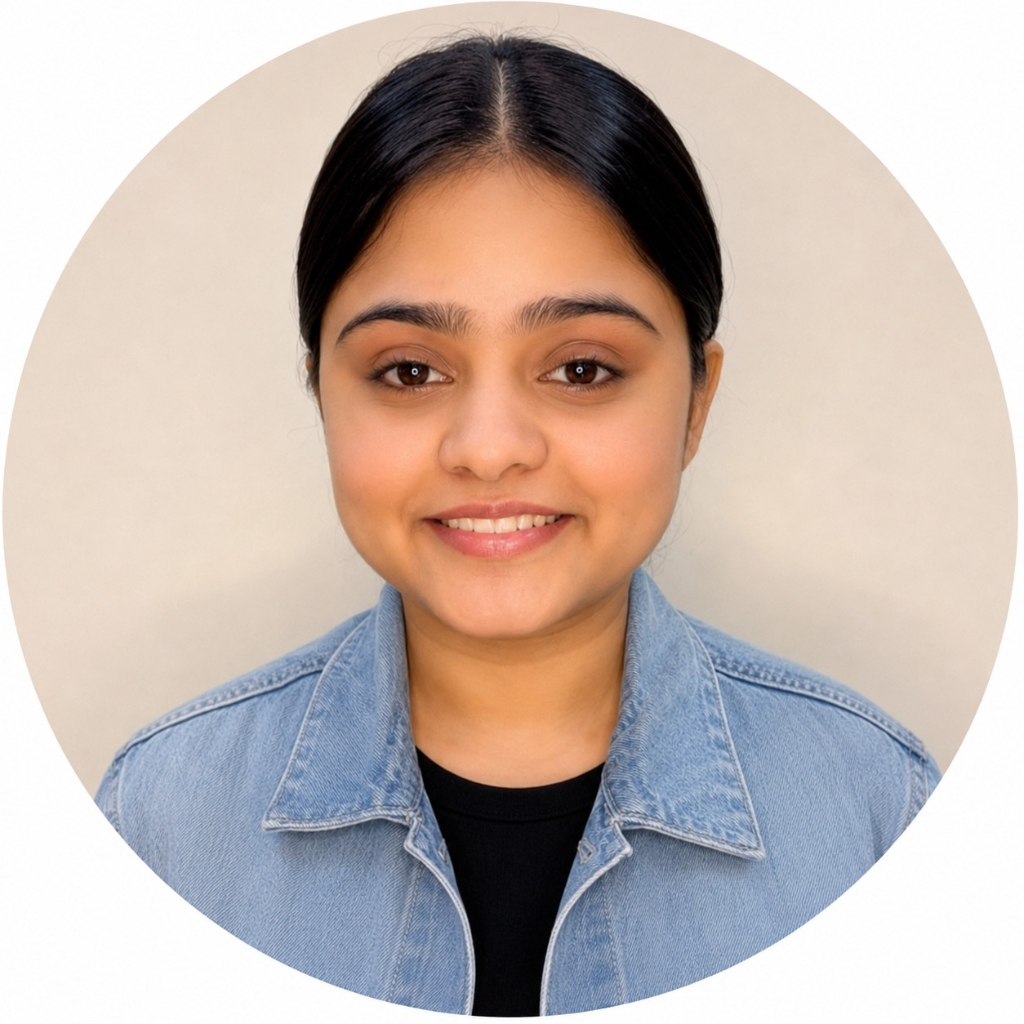
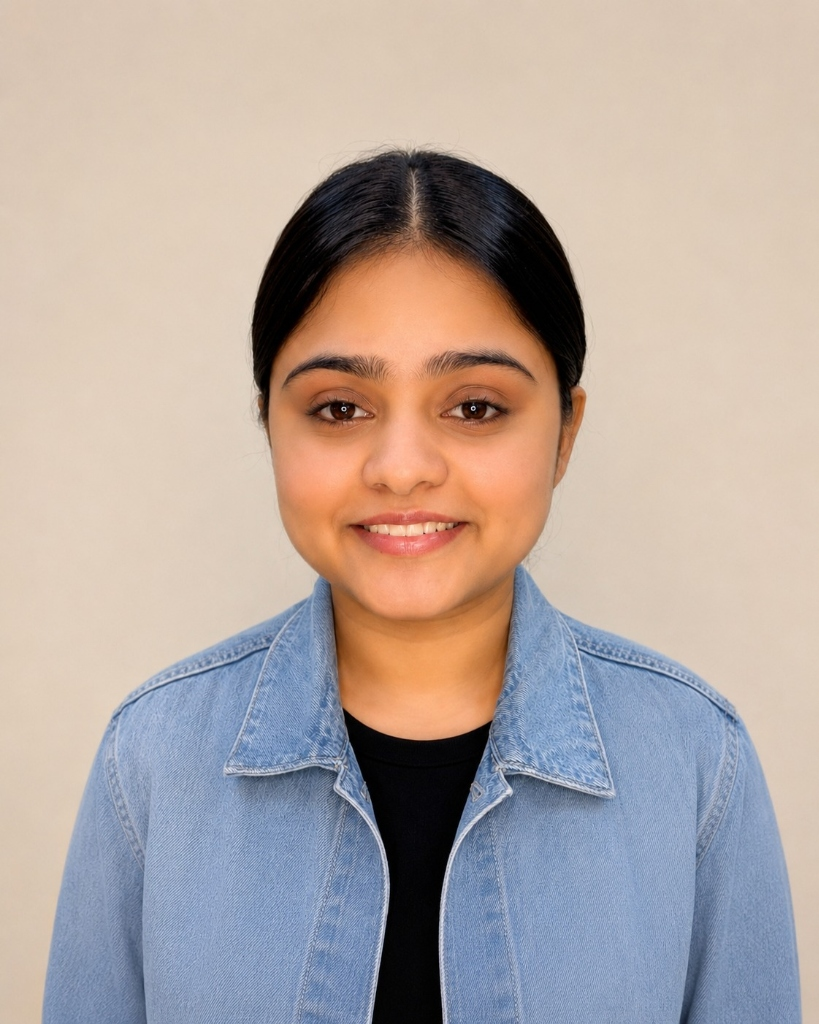
feat: update Amit Kumar and Shivani Singh Vimal photos + shrinking navbar on scroll

diff --git a/src/components/Navbar.tsx b/src/components/Navbar.tsx
@@ -24,6 +24,7 @@ interface NavbarProps {
 
 export default function Navbar({ onOpenCFP, onOpenTickets }: NavbarProps) {
   const [scrolled, setScrolled] = useState(false);
+  const [compact, setCompact] = useState(false);
   const [mobileMenuOpen, setMobileMenuOpen] = useState(false);
   const { theme, toggleTheme } = useTheme();
   const { isPlaying, toggleSoundtrack } = useSoundtrack();
@@ -32,8 +33,9 @@ export default function Navbar({ onOpenCFP, onOpenTickets }: NavbarProps) {
   useEffect(() => {
     const handleScroll = () => {
       setScrolled(window.scrollY > 20);
+      setCompact(window.scrollY > 80);
     };
-    window.addEventListener("scroll", handleScroll);
+    window.addEventListener("scroll", handleScroll, { passive: true });
     return () => window.removeEventListener("scroll", handleScroll);
   }, []);
 
@@ -70,9 +72,11 @@ export default function Navbar({ onOpenCFP, onOpenTickets }: NavbarProps) {
       ];
 
   return (
-    <header className="fixed top-0 left-0 right-0 z-50 flex justify-center px-2.5 sm:px-4 py-2.5 sm:py-3.5 transition-all duration-300">
+    <header className={`fixed top-0 left-0 right-0 z-50 flex justify-center px-2.5 sm:px-4 transition-all duration-300 ease-in-out ${compact ? "py-1 sm:py-1.5" : "py-2.5 sm:py-3.5"}`}>
       <div
-        className={`w-full max-w-7xl rounded-full px-3.5 sm:px-5 py-2 transition-all duration-300 flex items-center justify-between ${
+        className={`w-full max-w-7xl rounded-full transition-all duration-300 ease-in-out flex items-center justify-between ${
+          compact ? "px-3 sm:px-4 py-1" : "px-3.5 sm:px-5 py-2"
+        } ${
           scrolled
             ? "bg-white/90 dark:bg-[#060814]/90 backdrop-blur-xl border border-slate-200 dark:border-white/[0.1] shadow-xl shadow-slate-200/50 dark:shadow-black/80"
             : "bg-white/80 dark:bg-[#080D1E]/75 backdrop-blur-lg border border-slate-200/80 dark:border-white/[0.08]"
@@ -80,7 +84,7 @@ export default function Navbar({ onOpenCFP, onOpenTickets }: NavbarProps) {
       >
         {/* Brand Logo & Name */}
         <Link href="/" className="flex items-center gap-2 sm:gap-2.5 shrink-0">
-          <div className="relative h-7 w-7 sm:h-8 sm:w-8 rounded-lg bg-[#AD5CFF]/15 dark:bg-[#AD5CFF]/20 border border-[#AD5CFF]/30 p-1 flex items-center justify-center overflow-hidden">
+          <div className={`relative rounded-lg bg-[#AD5CFF]/15 dark:bg-[#AD5CFF]/20 border border-[#AD5CFF]/30 p-1 flex items-center justify-center overflow-hidden transition-all duration-300 ${compact ? "h-6 w-6 sm:h-7 sm:w-7" : "h-7 w-7 sm:h-8 sm:w-8"}`}>
             <Image
               src="/images/sbg-logo.png"
               alt="AWS Student Builder Group Logo"
@@ -92,22 +96,22 @@ export default function Navbar({ onOpenCFP, onOpenTickets }: NavbarProps) {
           </div>
 
           <div className="flex flex-col">
-            <span className="text-xs sm:text-sm font-extrabold tracking-tight text-slate-950 dark:text-white leading-tight">
+            <span className={`font-extrabold tracking-tight text-slate-950 dark:text-white leading-tight transition-all duration-300 ${compact ? "text-[11px] sm:text-xs" : "text-xs sm:text-sm"}`}>
               AWS SBG PIET
             </span>
-            <span className="text-[8px] sm:text-[9px] font-semibold text-slate-500 dark:text-slate-400 tracking-wide uppercase">
+            <span className={`font-semibold text-slate-500 dark:text-slate-400 tracking-wide uppercase overflow-hidden transition-all duration-300 ${compact ? "max-h-0 opacity-0 mt-0" : "max-h-4 opacity-100 text-[8px] sm:text-[9px]"}`}>
               Student Community
             </span>
           </div>
         </Link>
 
         {/* Center Navigation Links (Desktop) */}
-        <nav className="hidden lg:flex items-center gap-1 bg-slate-100/80 dark:bg-white/[0.03] border border-slate-200/80 dark:border-white/[0.06] rounded-full px-2.5 py-0.5">
+        <nav className={`hidden lg:flex items-center gap-0.5 bg-slate-100/80 dark:bg-white/[0.03] border border-slate-200/80 dark:border-white/[0.06] rounded-full transition-all duration-300 ${compact ? "px-1.5 py-0" : "px-2.5 py-0.5"}`}>
           {navLinks.map((link) => (
             <Link
               key={link.name}
               href={link.href}
-              className={`px-3 py-1 text-xs font-medium rounded-full transition-all flex items-center gap-1 ${
+              className={`rounded-full transition-all duration-300 flex items-center gap-1 font-medium ${compact ? "px-2.5 py-0.5 text-[11px]" : "px-3 py-1 text-xs"} ${
                 link.highlight
                   ? "bg-[#AD5CFF] text-white font-bold shadow-sm shadow-[#AD5CFF]/30"
                   : "text-slate-600 dark:text-slate-300 hover:text-slate-900 dark:hover:text-white hover:bg-white dark:hover:bg-white/[0.06]"
@@ -124,14 +128,14 @@ export default function Navbar({ onOpenCFP, onOpenTickets }: NavbarProps) {
           {/* Theme Toggle Button */}
           <button
             onClick={toggleTheme}
-            className="p-2 rounded-full text-slate-600 dark:text-slate-300 hover:text-slate-900 dark:hover:text-white bg-slate-100 hover:bg-slate-200 dark:bg-white/[0.06] dark:hover:bg-white/[0.1] border border-slate-200 dark:border-white/10 transition-all cursor-pointer"
+            className={`rounded-full text-slate-600 dark:text-slate-300 hover:text-slate-900 dark:hover:text-white bg-slate-100 hover:bg-slate-200 dark:bg-white/[0.06] dark:hover:bg-white/[0.1] border border-slate-200 dark:border-white/10 transition-all duration-300 cursor-pointer ${compact ? "p-1.5" : "p-2"}`}
             aria-label={theme === "dark" ? "Switch to light mode" : "Switch to dark mode"}
             title={theme === "dark" ? "Switch to light mode" : "Switch to dark mode"}
           >
             {theme === "dark" ? (
-              <HugeiconsIcon icon={Sun01Icon} className="h-4 w-4 text-amber-400" />
+              <HugeiconsIcon icon={Sun01Icon} className={`transition-all duration-300 text-amber-400 ${compact ? "h-3.5 w-3.5" : "h-4 w-4"}`} />
             ) : (
-              <HugeiconsIcon icon={Moon02Icon} className="h-4 w-4 text-[#8E35EA]" />
+              <HugeiconsIcon icon={Moon02Icon} className={`transition-all duration-300 text-[#8E35EA] ${compact ? "h-3.5 w-3.5" : "h-4 w-4"}`} />
             )}
           </button>
 
@@ -140,7 +144,7 @@ export default function Navbar({ onOpenCFP, onOpenTickets }: NavbarProps) {
               {onOpenCFP && (
                 <button
                   onClick={onOpenCFP}
-                  className="px-3 py-1.5 text-xs font-medium text-slate-700 dark:text-slate-300 hover:text-slate-900 dark:hover:text-white hover:bg-slate-100 dark:hover:bg-white/[0.06] border border-slate-200 dark:border-white/10 rounded-full transition-all cursor-pointer"
+                  className={`text-xs font-medium text-slate-700 dark:text-slate-300 hover:text-slate-900 dark:hover:text-white hover:bg-slate-100 dark:hover:bg-white/[0.06] border border-slate-200 dark:border-white/10 rounded-full transition-all duration-300 cursor-pointer ${compact ? "px-2.5 py-1" : "px-3 py-1.5"}`}
                 >
                   Submit CFP
                 </button>
@@ -148,7 +152,7 @@ export default function Navbar({ onOpenCFP, onOpenTickets }: NavbarProps) {
               {onOpenTickets ? (
                 <button
                   onClick={onOpenTickets}
-                  className="group px-3.5 py-1.5 text-xs font-bold text-white bg-[#8E35EA] hover:bg-[#7828C8] dark:bg-[#AD5CFF] dark:hover:bg-[#9B4AE8] rounded-full transition-all flex items-center gap-1.5 shadow-sm cursor-pointer"
+                  className={`group text-xs font-bold text-white bg-[#8E35EA] hover:bg-[#7828C8] dark:bg-[#AD5CFF] dark:hover:bg-[#9B4AE8] rounded-full transition-all duration-300 flex items-center gap-1.5 shadow-sm cursor-pointer ${compact ? "px-3 py-1" : "px-3.5 py-1.5"}`}
                 >
                   <span>Get Event Pass</span>
                   <HugeiconsIcon icon={ArrowUpRight01Icon} className="h-3 w-3 group-hover:translate-x-0.5 group-hover:-translate-y-0.5 transition-transform" />
@@ -158,7 +162,7 @@ export default function Navbar({ onOpenCFP, onOpenTickets }: NavbarProps) {
                   href={EVENT_DETAILS.commudleUrl}
                   target="_blank"
                   rel="noopener noreferrer"
-                  className="group px-3.5 py-1.5 text-xs font-bold text-white bg-[#8E35EA] hover:bg-[#7828C8] dark:bg-[#AD5CFF] dark:hover:bg-[#9B4AE8] rounded-full transition-all flex items-center gap-1.5 shadow-sm cursor-pointer"
+                  className={`group text-xs font-bold text-white bg-[#8E35EA] hover:bg-[#7828C8] dark:bg-[#AD5CFF] dark:hover:bg-[#9B4AE8] rounded-full transition-all duration-300 flex items-center gap-1.5 shadow-sm cursor-pointer ${compact ? "px-3 py-1" : "px-3.5 py-1.5"}`}
                 >
                   <span>Register on Commudle</span>
                   <HugeiconsIcon icon={ArrowUpRight01Icon} className="h-3 w-3 group-hover:translate-x-0.5 group-hover:-translate-y-0.5 transition-transform" />
@@ -168,7 +172,7 @@ export default function Navbar({ onOpenCFP, onOpenTickets }: NavbarProps) {
           ) : (
             <Link
               href="/scd-panipat-2026"
-              className="group px-4 py-1.5 text-xs font-bold text-white bg-[#8E35EA] hover:bg-[#7828C8] dark:bg-[#AD5CFF] dark:hover:bg-[#9B4AE8] rounded-full transition-all flex items-center gap-1.5 shadow-sm cursor-pointer"
+              className={`group text-xs font-bold text-white bg-[#8E35EA] hover:bg-[#7828C8] dark:bg-[#AD5CFF] dark:hover:bg-[#9B4AE8] rounded-full transition-all duration-300 flex items-center gap-1.5 shadow-sm cursor-pointer ${compact ? "px-3 py-1" : "px-4 py-1.5"}`}
             >
               <span>Explore SCD Summit 2026</span>
               <HugeiconsIcon icon={ArrowUpRight01Icon} className="h-3 w-3 group-hover:translate-x-0.5 group-hover:-translate-y-0.5 transition-transform" />
@@ -180,25 +184,25 @@ export default function Navbar({ onOpenCFP, onOpenTickets }: NavbarProps) {
         <div className="lg:hidden flex items-center gap-1.5">
           <button
             onClick={toggleTheme}
-            className="p-2 text-slate-600 dark:text-slate-300 hover:text-slate-900 dark:hover:text-white rounded-full bg-slate-100 dark:bg-white/[0.06] border border-slate-200 dark:border-white/10"
+            className={`text-slate-600 dark:text-slate-300 hover:text-slate-900 dark:hover:text-white rounded-full bg-slate-100 dark:bg-white/[0.06] border border-slate-200 dark:border-white/10 transition-all duration-300 ${compact ? "p-1.5" : "p-2"}`}
             aria-label="Toggle theme"
           >
             {theme === "dark" ? (
-              <HugeiconsIcon icon={Sun01Icon} className="h-4 w-4 text-amber-400" />
+              <HugeiconsIcon icon={Sun01Icon} className={`transition-all duration-300 text-amber-400 ${compact ? "h-3.5 w-3.5" : "h-4 w-4"}`} />
             ) : (
-              <HugeiconsIcon icon={Moon02Icon} className="h-4 w-4 text-[#8E35EA]" />
+              <HugeiconsIcon icon={Moon02Icon} className={`transition-all duration-300 text-[#8E35EA] ${compact ? "h-3.5 w-3.5" : "h-4 w-4"}`} />
             )}
           </button>
 
           <button
             onClick={() => setMobileMenuOpen(!mobileMenuOpen)}
-            className="p-2 text-slate-700 dark:text-slate-200 hover:text-slate-900 dark:hover:text-white rounded-full bg-slate-100 dark:bg-white/[0.06] border border-slate-200 dark:border-white/10 cursor-pointer"
+            className={`text-slate-700 dark:text-slate-200 hover:text-slate-900 dark:hover:text-white rounded-full bg-slate-100 dark:bg-white/[0.06] border border-slate-200 dark:border-white/10 cursor-pointer transition-all duration-300 ${compact ? "p-1.5" : "p-2"}`}
             aria-label="Toggle mobile menu"
           >
             {mobileMenuOpen ? (
-              <HugeiconsIcon icon={Cancel01Icon} className="h-4 w-4" />
+              <HugeiconsIcon icon={Cancel01Icon} className={`transition-all duration-300 ${compact ? "h-3.5 w-3.5" : "h-4 w-4"}`} />
             ) : (
-              <HugeiconsIcon icon={Menu01Icon} className="h-4 w-4" />
+              <HugeiconsIcon icon={Menu01Icon} className={`transition-all duration-300 ${compact ? "h-3.5 w-3.5" : "h-4 w-4"}`} />
             )}
           </button>
         </div>

diff --git a/src/components/SpeakersCFP.tsx b/src/components/SpeakersCFP.tsx
@@ -32,7 +32,7 @@ export default function SpeakersCFP({ onOpenCFP }: SpeakersCFPProps) {
       role: "Senior Solutions Architect @ Amazon Web Services | Hybrid Cloud Specialist",
       track: "Track A • Cloud Architecture",
       linkedin: "https://www.linkedin.com/in/amitkyvmw/",
-      image: "/images/amit-kumar.png",
+      image: "/images/amit-kumar.jpg",
       initials: "AK",
       accent: "#0EA5E9",
     },
